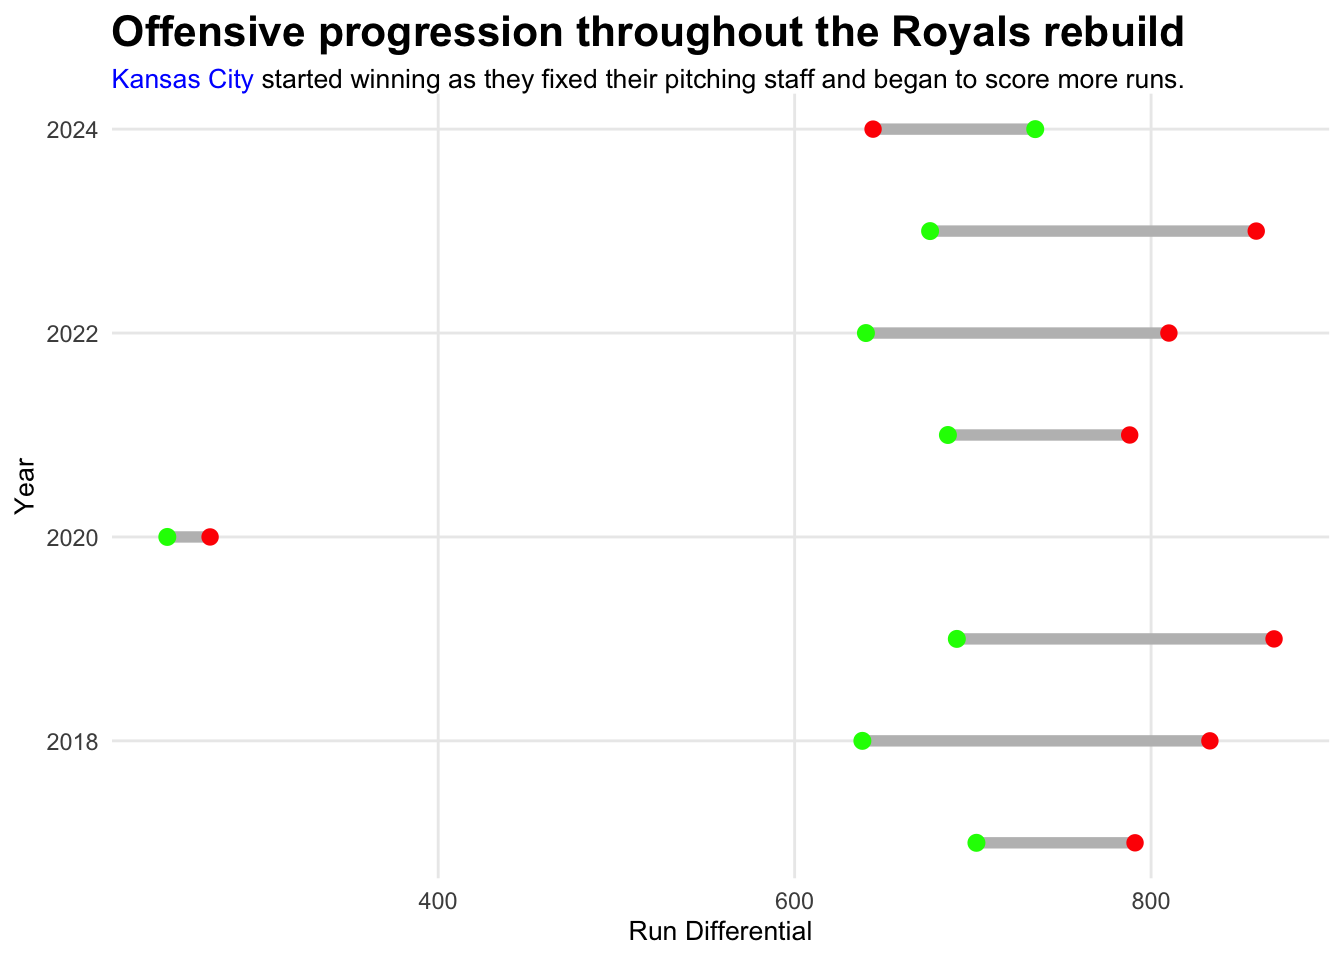
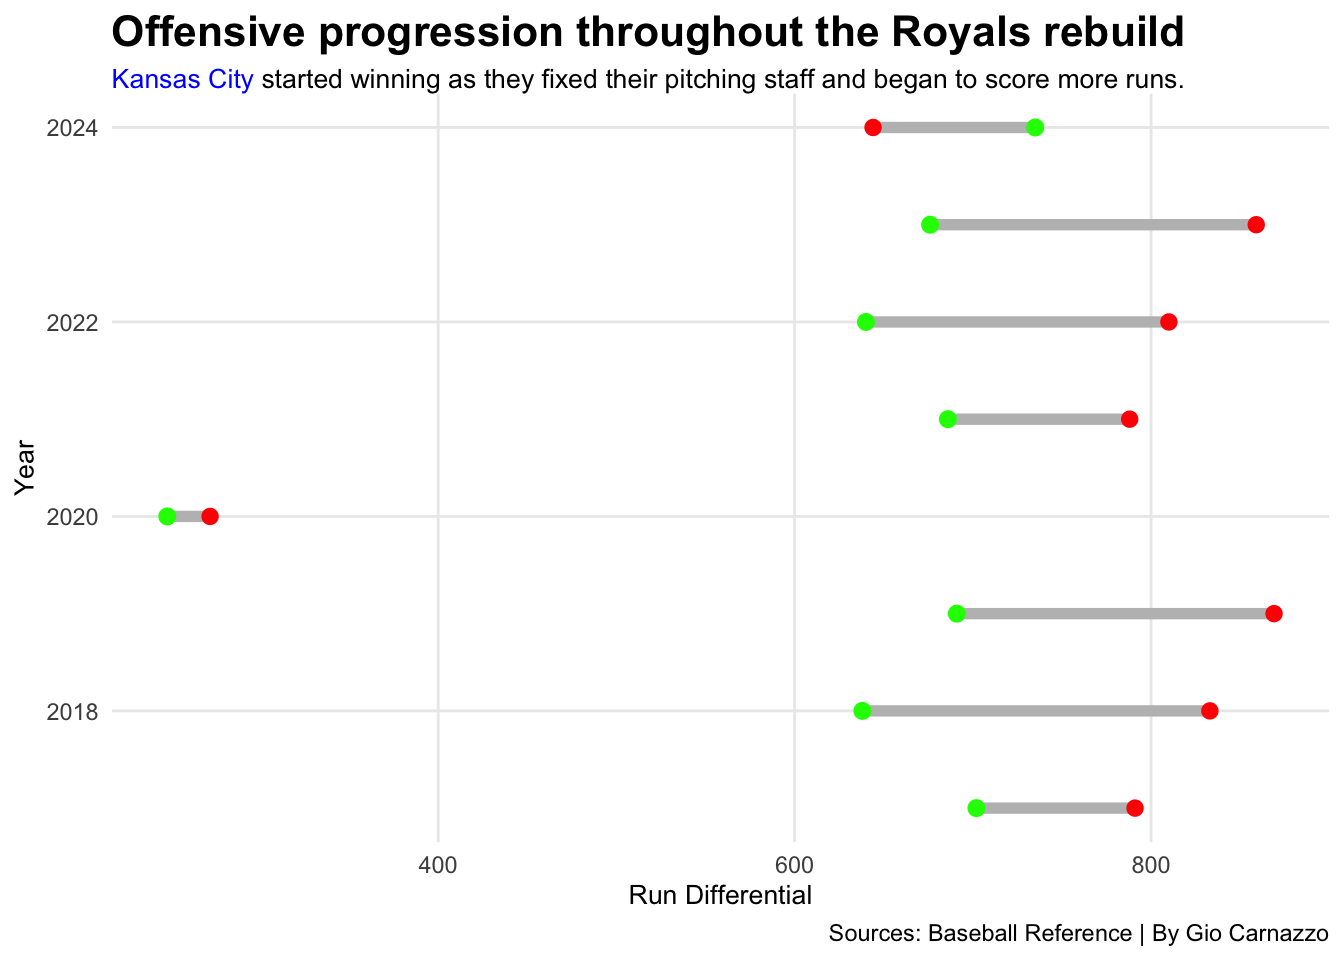
Almost

diff --git a/posts/royals-orioles-baseball-mlb-rebuild/index.html b/posts/royals-orioles-baseball-mlb-rebuild/index.html
@@ -229,7 +229,9 @@ pre > code.sourceCode > span > a:first-child::before { text-decoration: underlin
 </div>
 </div>
 </div>
-<p>Hi</p>
+<p>What’s interesting is it almost looks like Kansas City underwent two separate rebuilds during this span. Before COVID there was a steady decline in the amount of wins they were able to earn each season. After, it was almost as though they thought they had something.</p>
+<p>They did not. The 2021 season for the Royals should honestly be studied. It was such a baffling year. Out of the 36 players who saw the field for them that season only four remain in the organization. Four.</p>
+<p>Many of the players on that team wound up going other places opening up spots for a much needed youth movement that would finally take place in 2022 for KC. Although it was necessary it led to a decrease in overall wins. Once those players got adjusted and more came up to the bigs the Royals finally saw light at the end of the baseball purgatory tunnel. Let’s take a look at their run differential over the eight seasons it took them to finally make it back to the fall classic.</p>
 <div class="cell">
 <details class="code-fold">
 <summary>Code</summary>
@@ -254,14 +256,15 @@ pre > code.sourceCode > span > a:first-child::before { text-decoration: underlin
 <span id="cb2-19"><a href="#cb2-19" aria-hidden="true" tabindex="-1"></a>    <span class="at">x =</span> <span class="st">"Run Differential"</span>,</span>
 <span id="cb2-20"><a href="#cb2-20" aria-hidden="true" tabindex="-1"></a>    <span class="at">y =</span> <span class="st">"Year"</span>, </span>
 <span id="cb2-21"><a href="#cb2-21" aria-hidden="true" tabindex="-1"></a>    <span class="at">title =</span> <span class="st">"Offensive progression throughout the Royals rebuild"</span>,</span>
-<span id="cb2-22"><a href="#cb2-22" aria-hidden="true" tabindex="-1"></a>    <span class="at">subtitle =</span> <span class="st">"&lt;span style = 'color:blue;'&gt;Kansas City&lt;/span&gt; started winning as they fixed their pitching staff and began to score more runs."</span>) <span class="sc">+</span></span>
-<span id="cb2-23"><a href="#cb2-23" aria-hidden="true" tabindex="-1"></a>  <span class="fu">theme_minimal</span>() <span class="sc">+</span> </span>
-<span id="cb2-24"><a href="#cb2-24" aria-hidden="true" tabindex="-1"></a>  <span class="fu">theme</span>(</span>
-<span id="cb2-25"><a href="#cb2-25" aria-hidden="true" tabindex="-1"></a>    <span class="at">plot.title =</span> <span class="fu">element_text</span>(<span class="at">size =</span> <span class="dv">16</span>, <span class="at">face =</span> <span class="st">"bold"</span>),</span>
-<span id="cb2-26"><a href="#cb2-26" aria-hidden="true" tabindex="-1"></a>    <span class="at">axis.title =</span> <span class="fu">element_text</span>(<span class="at">size =</span> <span class="dv">10</span>),</span>
-<span id="cb2-27"><a href="#cb2-27" aria-hidden="true" tabindex="-1"></a>    <span class="at">plot.subtitle =</span> <span class="fu">element_textbox_simple</span>(<span class="at">size =</span> <span class="dv">10</span>),</span>
-<span id="cb2-28"><a href="#cb2-28" aria-hidden="true" tabindex="-1"></a>    <span class="at">panel.grid.minor =</span> <span class="fu">element_blank</span>()</span>
-<span id="cb2-29"><a href="#cb2-29" aria-hidden="true" tabindex="-1"></a>  )</span></code><button title="Copy to Clipboard" class="code-copy-button"><i class="bi"></i></button></pre></div>
+<span id="cb2-22"><a href="#cb2-22" aria-hidden="true" tabindex="-1"></a>    <span class="at">subtitle =</span> <span class="st">"&lt;span style = 'color:blue;'&gt;Kansas City&lt;/span&gt; started winning as they fixed their pitching staff and began to score more runs."</span>,</span>
+<span id="cb2-23"><a href="#cb2-23" aria-hidden="true" tabindex="-1"></a>    <span class="at">caption =</span> <span class="st">"Sources: Baseball Reference | By Gio Carnazzo"</span>) <span class="sc">+</span></span>
+<span id="cb2-24"><a href="#cb2-24" aria-hidden="true" tabindex="-1"></a>  <span class="fu">theme_minimal</span>() <span class="sc">+</span> </span>
+<span id="cb2-25"><a href="#cb2-25" aria-hidden="true" tabindex="-1"></a>  <span class="fu">theme</span>(</span>
+<span id="cb2-26"><a href="#cb2-26" aria-hidden="true" tabindex="-1"></a>    <span class="at">plot.title =</span> <span class="fu">element_text</span>(<span class="at">size =</span> <span class="dv">16</span>, <span class="at">face =</span> <span class="st">"bold"</span>),</span>
+<span id="cb2-27"><a href="#cb2-27" aria-hidden="true" tabindex="-1"></a>    <span class="at">axis.title =</span> <span class="fu">element_text</span>(<span class="at">size =</span> <span class="dv">10</span>),</span>
+<span id="cb2-28"><a href="#cb2-28" aria-hidden="true" tabindex="-1"></a>    <span class="at">plot.subtitle =</span> <span class="fu">element_textbox_simple</span>(<span class="at">size =</span> <span class="dv">10</span>),</span>
+<span id="cb2-29"><a href="#cb2-29" aria-hidden="true" tabindex="-1"></a>    <span class="at">panel.grid.minor =</span> <span class="fu">element_blank</span>()</span>
+<span id="cb2-30"><a href="#cb2-30" aria-hidden="true" tabindex="-1"></a>  )</span></code><button title="Copy to Clipboard" class="code-copy-button"><i class="bi"></i></button></pre></div>
 </details>
 <div class="cell-output-display">
 <div>
@@ -271,7 +274,9 @@ pre > code.sourceCode > span > a:first-child::before { text-decoration: underlin
 </div>
 </div>
 </div>
-<p>More text here!</p>
+<p>The Royals only had one season where they scored more runs than they gave up and it was this past one. Baltimore clearly had a more efficient rebuild on the surface. They reached the playoffs before Kansas City ever got close and they managed to win more games than the Royals in each of the last three seasons.</p>
+<p>They also did not just make the playoffs before their counterpart because that would be underselling it. While Royals fans were enduring one of the worst seasons in franchise history in 2023, Baltimore was in the midst of one of their best. Their 101 wins were the second most in all of baseball behind only the Atlanta Braves.</p>
+<p>What changed for them? They stopped giving up runs and they started scoring more of them. That much is obvious, but how wide was the margin? Let’s look at Baltimore’s run differential this time.</p>
 <div class="cell">
 <details class="code-fold">
 <summary>Code</summary>
@@ -296,14 +301,15 @@ pre > code.sourceCode > span > a:first-child::before { text-decoration: underlin
 <span id="cb3-19"><a href="#cb3-19" aria-hidden="true" tabindex="-1"></a>    <span class="at">x =</span> <span class="st">"Run Differential"</span>,</span>
 <span id="cb3-20"><a href="#cb3-20" aria-hidden="true" tabindex="-1"></a>    <span class="at">y =</span> <span class="st">"Year"</span>, </span>
 <span id="cb3-21"><a href="#cb3-21" aria-hidden="true" tabindex="-1"></a>    <span class="at">title =</span> <span class="st">"Offensive progression throughout the Orioles rebuild"</span>,</span>
-<span id="cb3-22"><a href="#cb3-22" aria-hidden="true" tabindex="-1"></a>    <span class="at">subtitle =</span> <span class="st">"&lt;span style = 'color:orange;'&gt;Baltimore&lt;/span&gt; started winning as they started scoring more runs and giving up less."</span>) <span class="sc">+</span></span>
-<span id="cb3-23"><a href="#cb3-23" aria-hidden="true" tabindex="-1"></a>  <span class="fu">theme_minimal</span>() <span class="sc">+</span> </span>
-<span id="cb3-24"><a href="#cb3-24" aria-hidden="true" tabindex="-1"></a>  <span class="fu">theme</span>(</span>
-<span id="cb3-25"><a href="#cb3-25" aria-hidden="true" tabindex="-1"></a>    <span class="at">plot.title =</span> <span class="fu">element_text</span>(<span class="at">size =</span> <span class="dv">16</span>, <span class="at">face =</span> <span class="st">"bold"</span>),</span>
-<span id="cb3-26"><a href="#cb3-26" aria-hidden="true" tabindex="-1"></a>    <span class="at">axis.title =</span> <span class="fu">element_text</span>(<span class="at">size =</span> <span class="dv">10</span>),</span>
-<span id="cb3-27"><a href="#cb3-27" aria-hidden="true" tabindex="-1"></a>    <span class="at">plot.subtitle =</span> <span class="fu">element_textbox_simple</span>(<span class="at">size =</span> <span class="dv">10</span>),</span>
-<span id="cb3-28"><a href="#cb3-28" aria-hidden="true" tabindex="-1"></a>    <span class="at">panel.grid.minor =</span> <span class="fu">element_blank</span>()</span>
-<span id="cb3-29"><a href="#cb3-29" aria-hidden="true" tabindex="-1"></a>  )</span></code><button title="Copy to Clipboard" class="code-copy-button"><i class="bi"></i></button></pre></div>
+<span id="cb3-22"><a href="#cb3-22" aria-hidden="true" tabindex="-1"></a>    <span class="at">subtitle =</span> <span class="st">"&lt;span style = 'color:orange;'&gt;Baltimore&lt;/span&gt; started winning as they started scoring more runs and giving up less."</span>,</span>
+<span id="cb3-23"><a href="#cb3-23" aria-hidden="true" tabindex="-1"></a>    <span class="at">caption =</span> <span class="st">"Sources: Baseball Reference | By Gio Carnazzo"</span>) <span class="sc">+</span></span>
+<span id="cb3-24"><a href="#cb3-24" aria-hidden="true" tabindex="-1"></a>  <span class="fu">theme_minimal</span>() <span class="sc">+</span> </span>
+<span id="cb3-25"><a href="#cb3-25" aria-hidden="true" tabindex="-1"></a>  <span class="fu">theme</span>(</span>
+<span id="cb3-26"><a href="#cb3-26" aria-hidden="true" tabindex="-1"></a>    <span class="at">plot.title =</span> <span class="fu">element_text</span>(<span class="at">size =</span> <span class="dv">16</span>, <span class="at">face =</span> <span class="st">"bold"</span>),</span>
+<span id="cb3-27"><a href="#cb3-27" aria-hidden="true" tabindex="-1"></a>    <span class="at">axis.title =</span> <span class="fu">element_text</span>(<span class="at">size =</span> <span class="dv">10</span>),</span>
+<span id="cb3-28"><a href="#cb3-28" aria-hidden="true" tabindex="-1"></a>    <span class="at">plot.subtitle =</span> <span class="fu">element_textbox_simple</span>(<span class="at">size =</span> <span class="dv">10</span>),</span>
+<span id="cb3-29"><a href="#cb3-29" aria-hidden="true" tabindex="-1"></a>    <span class="at">panel.grid.minor =</span> <span class="fu">element_blank</span>()</span>
+<span id="cb3-30"><a href="#cb3-30" aria-hidden="true" tabindex="-1"></a>  )</span></code><button title="Copy to Clipboard" class="code-copy-button"><i class="bi"></i></button></pre></div>
 </details>
 <div class="cell-output-display">
 <div>
@@ -313,7 +319,10 @@ pre > code.sourceCode > span > a:first-child::before { text-decoration: underlin
 </div>
 </div>
 </div>
-<p>More text!</p>
+<p>Unlike KC, they saw pretty steady progression throughout the rebuild. The Royals negative run margin pretty much stayed the chasm it was up following 2020 up until 2024, but the Orioles began to give up less and score more with every year that passed.</p>
+<p>This showed a solid plan was in place and they took the steps they needed to go from one level to the next. So, how did the two teams take such different paths and somehow wind up in the same place in 2024?</p>
+<p>Star players in sports are the ultimate equalizer. Especially when they elevate the play of the athletes around them. Bobby Witt Jr.&nbsp;arrived in 2023, but his career took off in 2024. Gunnar Henderson’s did as well. The two superstars headlined a class of prospects for both teams that were developed by the organization during the early years of the rebuilds.</p>
+<p>There are certainly guys like Cedric Mullins and Salvador Perez who stuck it out, but they are few and far between. In fact they are the only two position players that played on either team before COVID. The rest of the highlighted dots represent prospects from both teams that were developed before 2020 and promoted after.</p>
 <div class="cell">
 <details class="code-fold">
 <summary>Code</summary>

diff --git a/index.html b/index.html
@@ -200,7 +200,7 @@ window.Quarto = {
 
 <div class="quarto-listing quarto-listing-container-default" id="listing-listing">
 <div class="list quarto-listing-default">
[2 lines of base64/hex data omitted]
 <div class="thumbnail">
 <p><a href="./posts/royals-orioles-baseball-mlb-rebuild/index.html" class="no-external"></a></p><a href="./posts/royals-orioles-baseball-mlb-rebuild/index.html" class="no-external">
 <p><img loading="lazy" src="./posts/royals-orioles-baseball-mlb-rebuild/image.png" class="thumbnail-image"></p>
